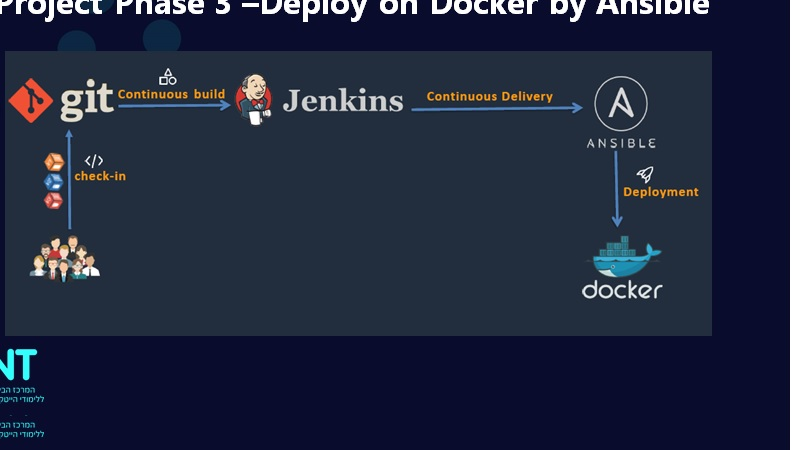
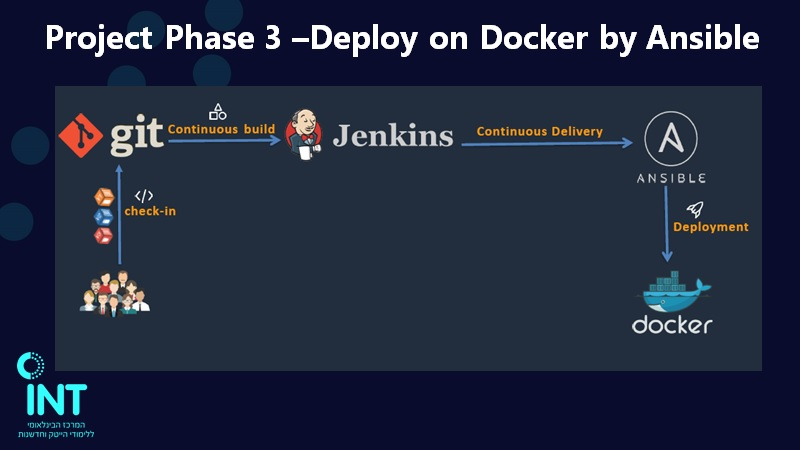
changes to the DevOps-Project-Phase-3.md file

diff --git a/DevOps-Project-Phase-3.md b/DevOps-Project-Phase-3.md
@@ -1,0 +1,4 @@
+# DevOps Project Phase 3 - Deploy on Docker by Ansible
+
+  ![Project-Phase3!](Images/Phase3/project-phase-3.jpg)
+
